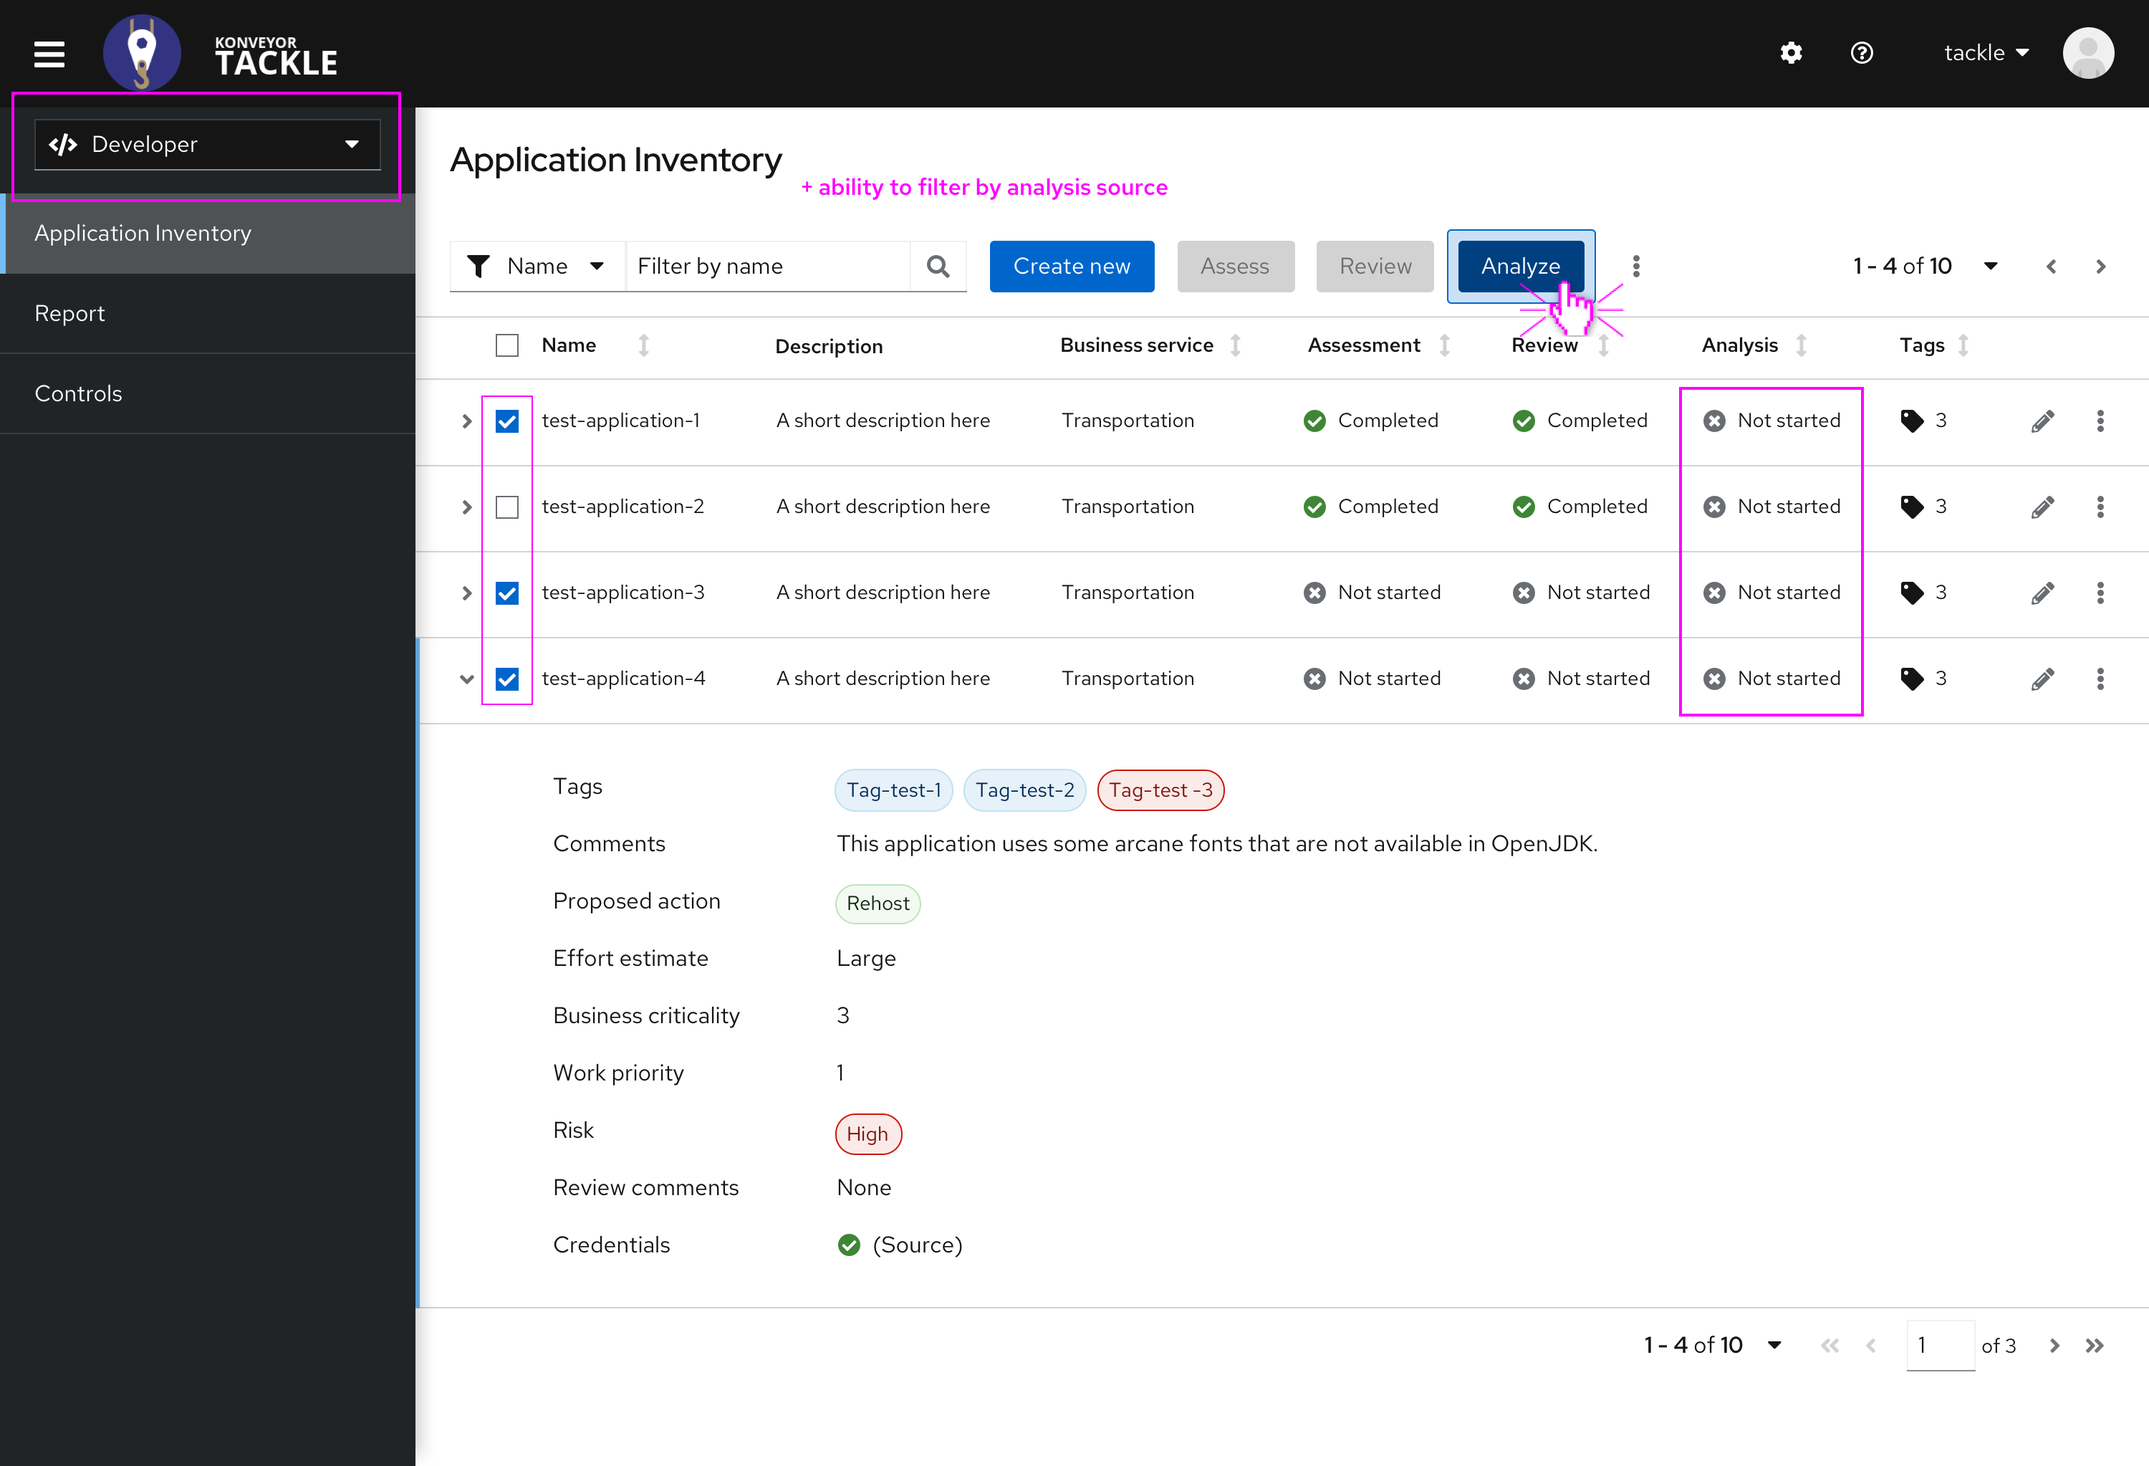
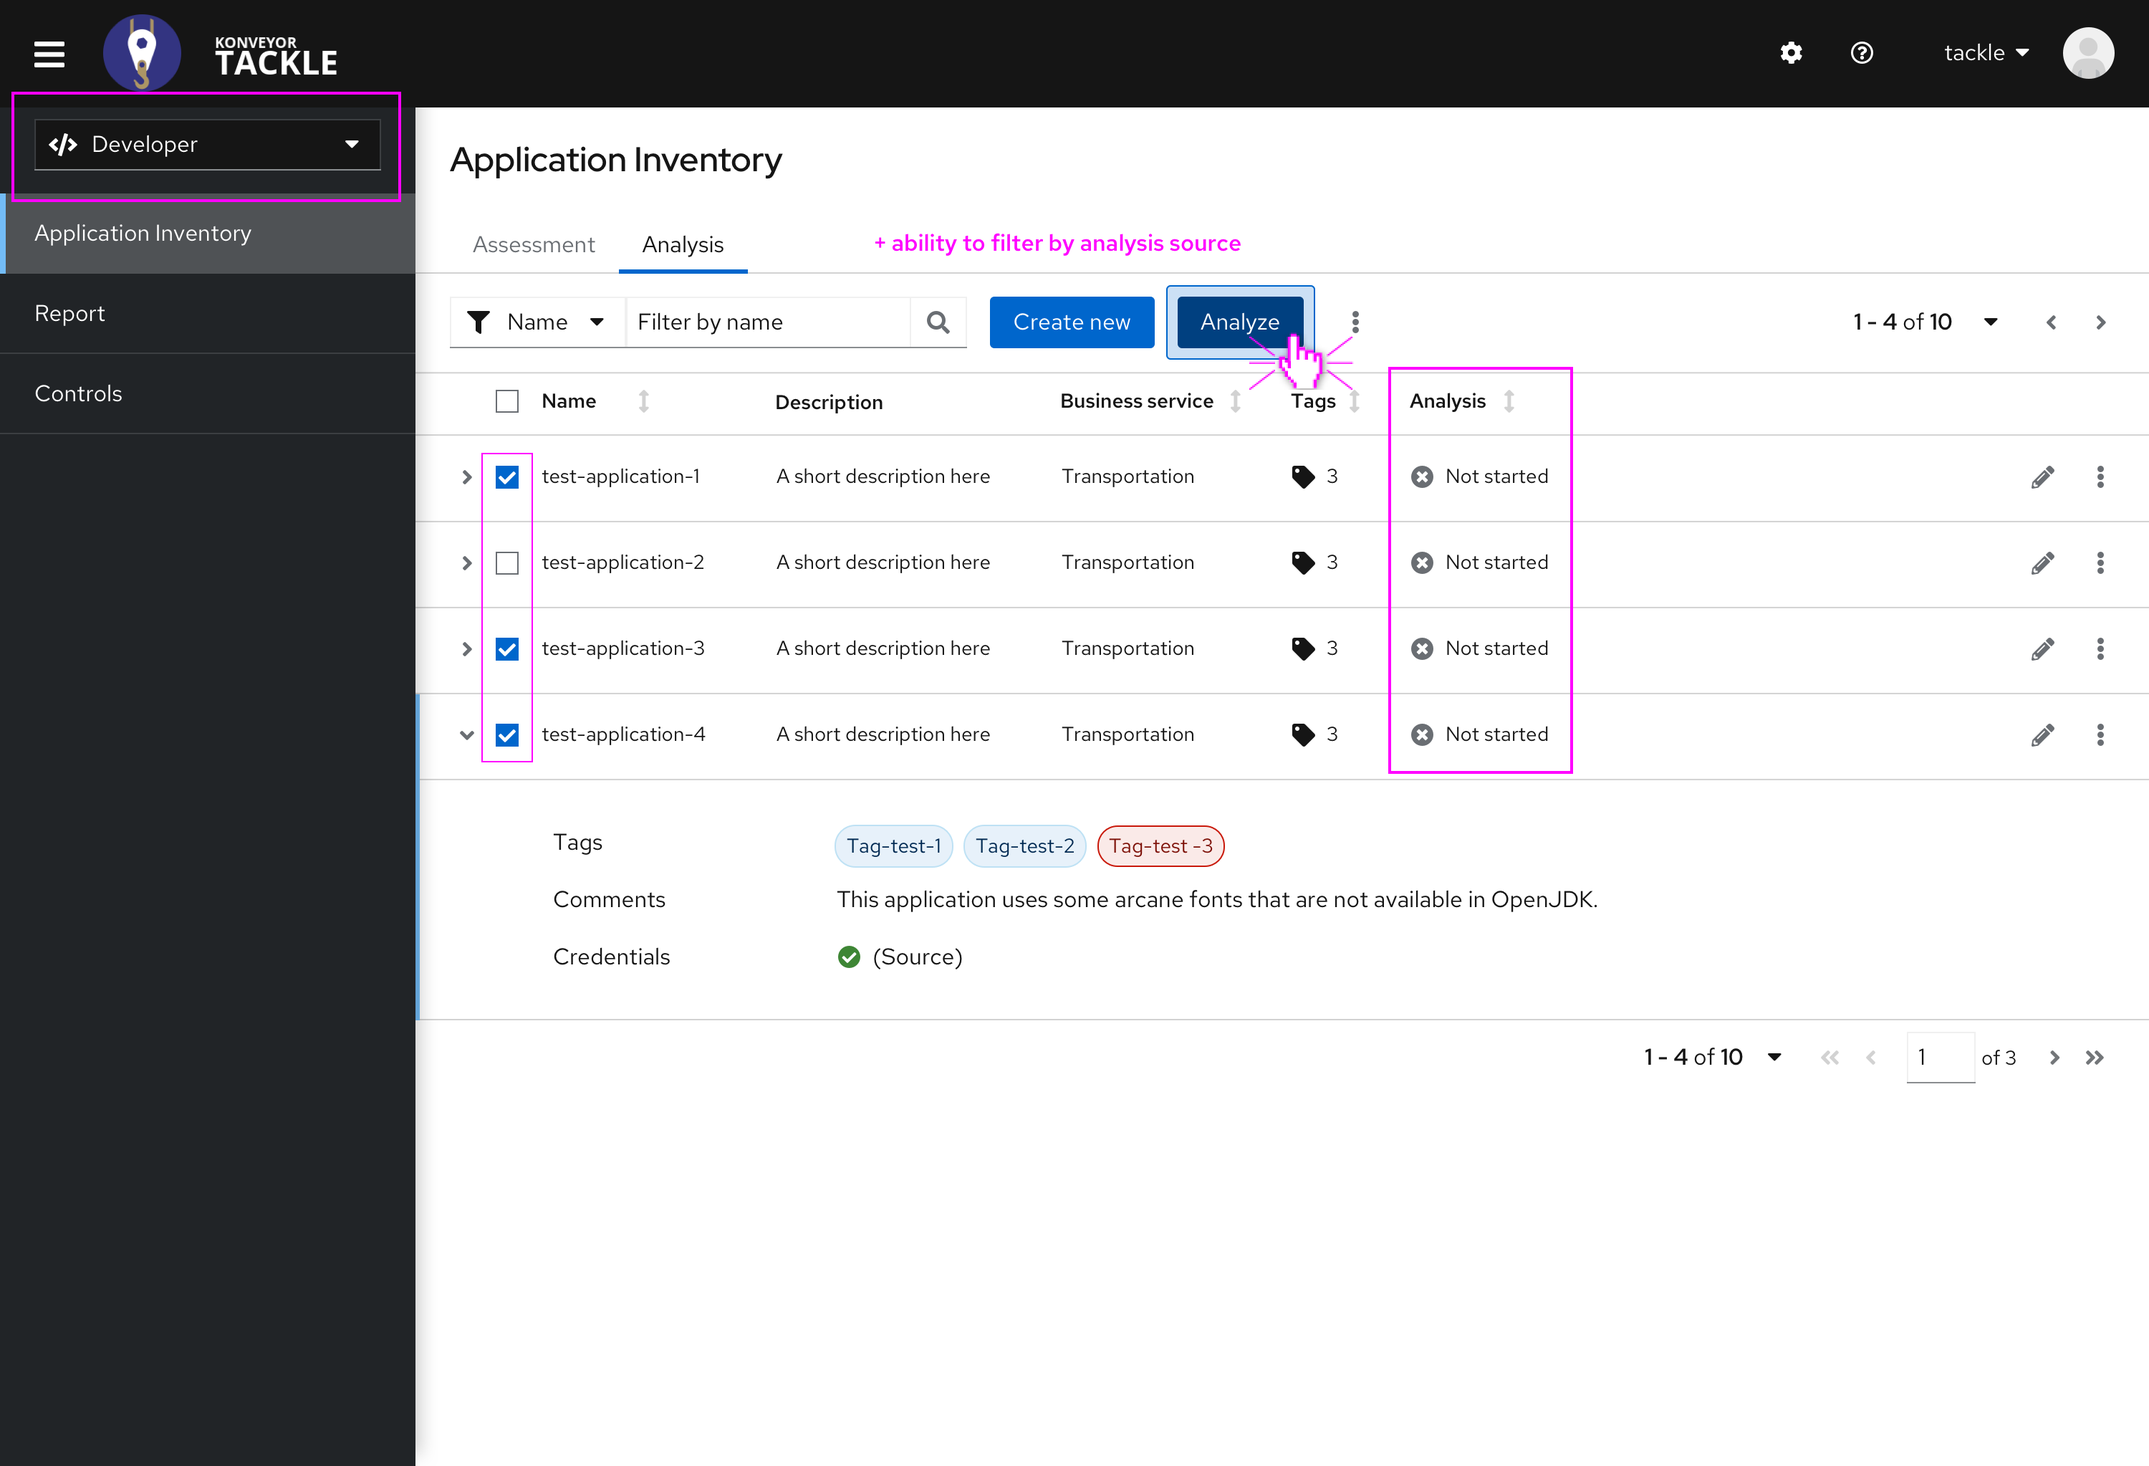
Finished functional specification

diff --git a/enhancements/tackle/tackle-windup-integration/README.md b/enhancements/tackle/tackle-windup-integration/README.md
@@ -280,7 +280,7 @@ Analyses in progress, or failed executions will not be included in the analysis 
 
 ##### Description
 
-The new analysis feature requires a reorganization of the main inventory view, as there would be to many significant fields to be displayed on each application row with the current layout. The proposed solution is based in arranging fields and actions relative to analysis and assessment in different tabs. The application list displayed on each of the tabs will be the same, based on the selected criteria on the filtering system, but the information displayed in each row and the application details will change depending on the selected tab. The same will happen with the list of actions available on the buttons on top of the main table. Some row fields will remain fixed for all tabs. These fields are the following:
+The new analysis feature requires a reorganization of the main inventory view, as there would be to many significant fields to be displayed on each application row with the current layout. The proposed solution is based in arranging fields and actions relative to analysis and assessment in different tabs. The application list displayed on each of the tabs will be the same, based on the selected criteria on the filtering system, but the information displayed in each row, the application details and the available actions on the kebab menu on each application row will change depending on the selected tab. The same will happen with the list of actions available on the buttons on top of the main table. Some row fields will remain fixed for all tabs. These fields are the following:
 
 - **Name**: Application name
 - **Description**: Application description
@@ -318,7 +318,13 @@ The list of assessment related fields in the application detail expandable secti
 
 The rendering and types for each field values will remain the same as they are now.
 
-The available actions for the Assessment tab are the following:
+Regarding the actions available in the kebab menu for each application row, the list would be the following:
+
+![Inventory Main View - Assessment Tab](images/inventory-tab-assessment-kebab.png?raw=true "Inventory Main View - Assessment Tab")
+
+This list of actions matches what is currently available in Tackle 1.x.
+
+The available actions on the top menu for the Assessment tab are the following:
 
 - **Assess**: Starts the assessment flow. It will only be enabled when a single application is selected, and disabled in any other case.
 - **Review**: Navigates to the review view. It will only be enabled when an application that has its assessment status as "Completed" is selected.
@@ -344,10 +350,19 @@ The list of analysis related fields in the application detail expandable section
 
 The analysis field will display an icon with a link to the HTML reports when the analysis status is "Completed". Otherwise, it will display "Not available".
 
-The available actions for the Analysis tab are the following:
+Regarding the actions available in the kebab menu for each application row, the list would be the following:
+
+![Inventory Main View - Analysis Tab](images/inventory-tab-analysis-kebab.png?raw=true "Inventory Main View - Analysis Tab")
+
+Manage dependencies and Delete will remain doing the same as in Tackle 1.x. "Cancel analysis" will cancel an analysis that hasn't finished yet, and should only be displayed for applications that have an Analysis with status "Scheduled" or "In progress".
+
+The available actions on the top menu for the Analysis tab are the following:
 
 - **Analyze**: Starts the analysis flow. Will be enabled when one or many applications that don't have their analysis status as "Scheduled" or "In progress" are selected.
 
+###### Additional filters
+
+A new filter should be added to allow users to filter the application list by their analysis source (Source code or Binary).
 
 #### Bulk Analysis configuration
 
@@ -374,6 +389,8 @@ The available actions for the Analysis tab are the following:
 ##### Description
 
 If the user selects one or many applications and clicks on "Analyze", the analysis configuration flow will start. This flow is mostly the same for the case of analyzing a single application or several of them. In this point, we will see the common points for both cases, to later on describe the particularities of the single application analysis flow.
+
+![Analysis mode](images/bulk_analysis.png?raw=true "Analysis mode")
 
 ###### Analysis mode
 
@@ -460,15 +477,187 @@ In the next step of the analysis configuration flow, the user will optionally ad
 
 At first, the table will appear empty. Adding custom rules is not mandatory, so the "Next" button should be enabled even if no rules have been added. If the user clicks on the "Add rule" button, and upload dialog will open:
 
-When the user uploads a file, validation should execute automatically once the file has been fully received. Validation will consist on the following:
+![Upload custom rules](images/ba-customrules-upload-empty.png?raw=true "Upload custom rules")
+
+
+After selecting the files to upload or dragging them to the component, the upload will begin and a component will be displayed to keep track of the upload progress:
+
+![Upload custom rules](images/ba-customrules-upload-uploading-collapsed.png?raw=true "Upload custom rules")
+
+Clicking on the arrow will expand a section with the upload details, including the list of files and a progress bar for each one of them. While the upload is in progress, the "Add" button will be disabled:
+
+![Upload custom rules](images/ba-customrules-upload-uploading-expanded.png?raw=true "Upload custom rules")
+
+When the user uploads one or several files, validation should execute automatically once the file has been fully received. Validation will consist on the following:
 
 - The file has a ".windup.xml" suffix. This is a requirement from the Windup CLI, so this validation is a way to make sure that any rules file that gets passed will not be ignored by the CLI.
 
 - The file is validated against the following XML Schema Definition: https://windup.jboss.org/schema/jboss-ruleset/windup-jboss-ruleset.xsd
 
-> **Note**: Tackle should be capable of running in disconnected Kubernetes instances, so the XSD file should be available locally for the validator, as downloading it from the Internet might not be an option.
+> **Note**: Tackle should be capable of running in disconnected Kubernetes instances, so the XSD file should be available locally for the validator, as downloading it might not be an option.
 
-If the file passes all validations, the green bar will be displayed, and the "Add" button will be enabled. If any problem with validation happens, the red bar will be displayed along with an error message, and the "Add" button will be disabled, with "Cancel" as the only available option.
+Once the validation is done, each file will have a green or red bar depending on the validation results for each one of them. The "Add" button will be enabled if at least one file is valid.
+
+![Upload custom rules](images/ba-customrules-upload-uploading-success.png?raw=true "Upload custom rules")
+
+If any of the files is not valid, the red bar and an error message will be displayed under the corresponding file:
+
+![Upload custom rules](images/ba-customrules-upload-uploading-failure.png?raw=true "Upload custom rules")
+
+If any of the files is not valid clicking on "Add" will result in only the valid files being added to the custom rules list:
+
+![Custom rules](images/ba-customrules-listfiles.png?raw=true "Custom rules")
+
+Once files are uploaded, they will be presented in a table with the following columns:
+
+- **File name**: Name of the XML rules file that was uploaded.
+- **Source/Target**: Source and Target for the ruleset defined in the XML rules file. These can be obtained parsing the id attribute from the ruleset.metadata.sourceTechnology and ruleset.metadata.targetTechnology tags. As this entries are optional, they could not appear in the XML file, so an empty value would be displayed then. For example, if the sourceTechnology tag is not defined and targetTechnology is defined with an id with value "cloud-readiness", the column would display "/cloud-readiness". If both tags are not defined under the metadata tag, the column would display "/".
+- **Number of rules**: Number or rules that the rules file contains. It can be calculated as the number of ruleset.rules.rule tags present in the rules file.
+
+Each row will display a trash can icon. Clicking on it will delete the file corresponding to its row.
+
+###### Options
+
+After optionally adding custom rules, the user can configure a series of advanced options for the analysis.
+
+![Advanced Options](images/ba-advanced-options.png?raw=true "Advanced Options")
+
+This screen presents the following fields:
+
+- **Target(s)**: List of targets configured for the analysis. It should be prepopulated with the values that were established in the transformation target screen. The field should be a dropdown with multiple selection. The selected values should be passed to the CLI with the --target flag separated by spaces. (eg. --target eap7 cloud-readiness) Values:
+  - camel
+	- cloud-readiness
+	- drools
+	- eap
+	- eap6
+	- eap7
+	- eapxp
+	- fsw
+	- fuse
+	- hibernate
+	- hibernate-search
+	- jakarta-ee
+	- java-ee
+	- jbpm
+	- linux
+	- openjdk
+	- quarkus
+	- quarkus1
+	- resteasy
+	- rhr
+- **Source**: List of sources configured for the analysis. This helps narrowing down the list of rules that should be executed during the analysis. The field should be a dropdown with multiple selection. The selected values should be passed to the CLI with the --source flag separated by spaces. (eg. --source eap eap6). Values:
+  - agroal
+	- amazon
+	- artemis
+	- avro
+	- camel
+	- config
+	- drools
+	- eap
+	- eap6
+	- eap7
+	- eapxp
+	- elytron
+	- glassfish
+	- hibernate
+	- hibernate-search
+	- java
+	- java-ee
+	- javaee
+	- jbpm
+	- jdbc
+	- jonas
+	- jrun
+	- jsonb
+	- jsonp
+	- kafka
+	- keycloak
+	- kubernetes
+	- log4j
+	- logging
+	- narayana
+	- openshift
+	- oraclejdk
+	- orion
+	- quarkus1
+	- resin
+	- resteasy
+	- rmi
+	- rpc
+	- seam
+	- soa
+	- soa-p
+	- sonic
+	- sonicesb
+	- springboot
+	- thorntail
+	- weblogic
+	- websphere
+- **Excluded rule tags**: The list of rule tags that should be excluded from the analysis. A text field will be displayed for the user to enter the desired tag to be excluded. Clicking on "Add" will add the tag to the list below. The selected values should be passed to the CLI with the --excludeTags flag separated by spaces. (eg. --excludeTags corporate-config-01000 corporate-config-01023).
+
+###### Review analysis details
+
+At the end of the analysis configuration flow, the user will be presented with a review screen with all the options that have been configured for the analysis:
+
+
+![Advanced Options](images/ba-review.png?raw=true "Advanced Options")
+
+The review screen will be informative only, and no inputs will be requested to the user. The information to be displayed is the following:
+
+- **Applications**: List of applications included in the analysis.
+- **Target(s)**: Target migration paths defined for the analysis.
+- **Scope**: Scope defined for the analysis.
+- **Included Packages**: List of packages defined for the analysis. This section will only be displayed if the "Select the list of packages to be analyzed manually" scope was defined.
+- **Custom rules**: List of custom rules defined for the analysis. "None" if no custom rules were defined.
+- **Advanced options**: List of Advanced options defined for the analysis. "None" if no advanced options were defined.
+
+
+#### Single Application Analysis configuration
+
+
+##### Related Use Cases
+
+- [AC001](#AC001)
+- [AC002](#AC002)
+- [AC003](#AC003)
+- [AC004](#AC004)
+- [AC005](#AC005)
+- [AC006](#AC006)
+- [AC007](#AC007)
+- [AC008](#AC008)
+- [AC009](#AC009)
+- [AC011](#AC011)
+
+
+##### Involved Personas
+
+- [Architect](#architect)
+- [Migrator](#migrator)
+
+
+##### Description
+
+The analysis configuration flow for a single application will be almost the same as the bulk analysis configuration flow defined in the previous point. It will start when the user selects a single application and clicks on "Analyze" under the Analysis tab in the Inventory view:
+
+![Single Application Analysis](images/single-analysis.png?raw=true "Single Application Analysis")
+
+The only change that differentiates the Single Application analysis configuration flow is that the in the Analysis Mode screen there will be an additional option to upload a binary for the selected application, emulating the previous behavior of the Web Console flavor of MTA:
+
+![Single Application Analysis](images/sa-analysis-mode-upload-binary.png?raw=true "Single Application Analysis")
+
+If the "Upload a local binary" option is selected, a new field will appear below the "Source for analysis" field:
+
+![Single Application Analysis](images/sa-analysis-mode-upload-binary-empty.png?raw=true "Single Application Analysis")
+
+The "Next" button will be disabled until a file is uploaded using the new field. Once the user drags a file or chooses one from its filesystem using the component, a validation will be fired to check if the file has a correct extension. Allowed extensions are: war, ear, jar, zip. If the file doesn't have an allowed extension, an error message will be displayed and the "Next" button will remain disabled:
+
+![Single Application Analysis](images/sa-analysis-mode-upload-binary-error.png?raw=true "Single Application Analysis")
+
+If the extension is correct, the "Next" button will become enabled and the user will be allowed to continue with the analysis configuration flow:
+
+![Single Application Analysis](images/sa-analysis-mode-upload-binary-uploaded.png?raw=true "Single Application Analysis")
+
+The rest of the analysis configuration flow will be exactly the same as described in the [Bulk Analysis configuration](bulk-analysis-configuration) specification.
 
 ### Implementation Details/Notes/Constraints
 
@@ -517,6 +706,16 @@ mvn -s $HOME/settings.xml dependency:copy -Dmdep.useBaseVersion=true -DoutputDir
 If no settings file was provided in the request, the "-s" part of the command should be skipped. Also, if no packaging is provided in the request, the format for the -Dartifact flag should be \<group>:\<artifact>:\<version>.
 
 Now, with the artifact available in $HOME/binaries, we can execute the analysis, provided the mta-cli command is available in $PATH and custom rules are available in the customrules directory in $HOME:
+
+```shell
+mta-cli --input $HOME/binaries/ --userRulesDirectory $HOME/customrules/  --target <target1> --target <target2> ... --target <targetn> <other_flags> --batchMode --overwrite --output <bucket>
+```
+
+If no custom rules are provided in the request, the --userRulesDirectory flag should be skipped.
+
+##### Upload a local binary Mode
+
+When dealing with the analysis of a single application, users can upload a binary directly from their workstations. For that case, considering the artifact has been made available in $HOME/binaries, we can execute the analysis, provided the mta-cli command is available in $PATH and custom rules are available in the customrules directory in $HOME:
 
 ```shell
 mta-cli --input $HOME/binaries/ --userRulesDirectory $HOME/customrules/  --target <target1> --target <target2> ... --target <targetn> <other_flags> --batchMode --overwrite --output <bucket>
